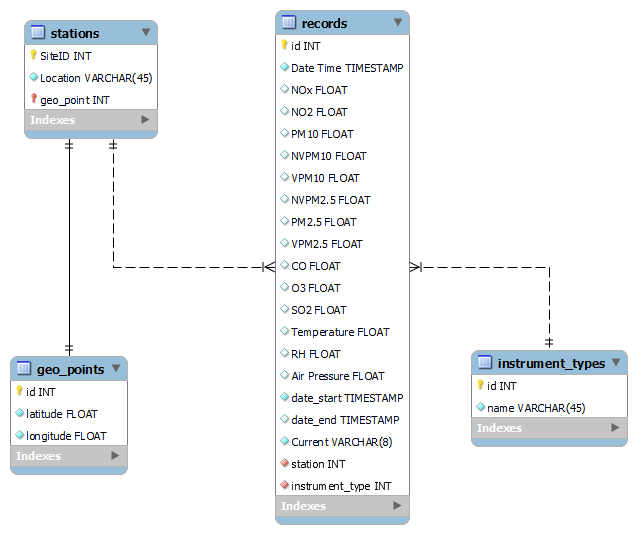
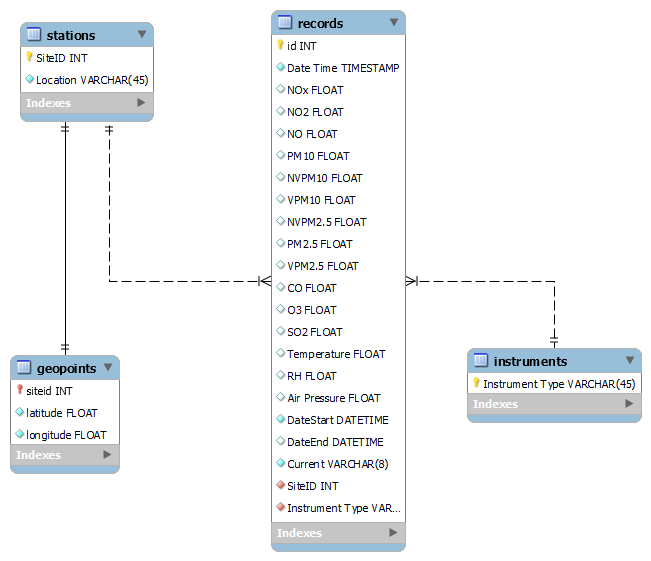
Task 3 & 4

diff --git a/insert_sql.py b/insert_sql.py
@@ -1,0 +1,101 @@
+#importing required libraries
+import sqlalchemy
+from sqlalchemy import text
+from sqlalchemy.orm import sessionmaker
+import pymysql
+import pandas as pd
+
+# define database credentials
+user = 'user' # replace with actual db user
+password = 'password' # replace with db pass
+host = 'localhost' # change to db host
+port = 3306 # change to host port
+
+# name of schema to be created and used in this script. Be careful no db exists on your 
+# server with the same name, such will be dropped and a new on created.
+# don't change it also as it will conflict with the name defined in the SQL script.
+db = 'pollution'
+
+# setup database engine and session manager
+engine = sqlalchemy.create_engine(f'mysql+pymysql://{user}:{password}@{host}:{port}')
+Session = sessionmaker(engine)
+
+# create database from pollution.sql file
+print('Executing commands in pollution.sql')
+with open('pollution.sql', 'r') as sqlfile:
+  query = ''
+  # skip comments in file and execute full sql statements
+  for line in sqlfile:
+    if not line.startswith('--') and line.strip('\n'):
+      query += line.strip('\n')
+
+      if query.endswith(';'):
+        try:
+          with Session.begin() as session:
+            session.execute(text(query))
+        except:
+            print(f"could not execute `{query}`. Check the query or the connection")
+            raise Exception('SQL execution error')
+        finally:
+          query = ''
+
+# read data from clean.csv for insertion into database
+df = pd.read_csv('clean.csv')
+
+# insert data into station table. This table contains data on monitoring sites
+stations = df.filter(items=['SiteID', 'Location']).drop_duplicates(subset='SiteID')
+stations.SiteID = stations.SiteID.astype('int64')
+print('\ninserting data into stations table...')
+try:
+  stations.to_sql('stations', con=engine, if_exists='append', index=False, schema=db)
+  print('Stations data inserted')
+except:
+  print("Couldn't insert data into stations table.")
+finally:
+  del stations
+
+# filter out geolocation data
+geopoints = df.filter(items=["SiteID", "geo_point_2d"]).drop_duplicates(subset='SiteID')
+# cast site id into appropriate data type
+geopoints.SiteID = geopoints.SiteID.astype('int64')
+# format geopoints into latitudes and longitudes
+geopoints[['latitude', 'longitude']] = geopoints.geo_point_2d.str.split(',', expand=True)
+del geopoints['geo_point_2d']
+
+print('\nInserting data into geopoints table...')
+try:
+  geopoints.to_sql('geopoints', con=engine, if_exists='append', index=False, schema=db)
+  print('geopoints data inserted')
+except:
+  print("Couldn't insert data into geopoints table.")
+finally:
+  del geopoints
+
+# filter out instrument types
+instru_types = df.filter(items=['Instrument Type']).drop_duplicates()
+
+print('\ninserting data into istruments table...')
+try:
+  instru_types.to_sql('instruments', con=engine, if_exists='append', index=False, schema=db)
+  print('instruments data inserted')
+except:
+  print("Couldn't insert data into instruments table.")
+finally:
+  del instru_types
+
+# insert data into records table
+records = df.drop(['Location', 'geo_point_2d'], axis=1)
+# cast timestamps to datatypes compatible with the database
+records['Date Time'] = records['Date Time'].astype('datetime64')
+records.DateEnd = records.DateEnd.astype('datetime64')
+records.DateStart = records.DateStart.astype('datetime64')
+
+print('\ninserting data into records table...')
+try:
+  records.to_sql('records', if_exists='append', con=engine, chunksize=1000, index=False, schema=db)
+  print('records data inserted')
+except:
+  print("Couldn't insert data into records table.")
+finally:
+  del records
+

diff --git a/crop.py b/crop.py
@@ -7,7 +7,8 @@ df = pd.read_csv('bristol-air-quality-data.csv', sep=';')
 
 # delete entries older than 2010-01-01 00:00
 df = df[df['Date Time'].astype('datetime64') >= pd.Timestamp('2010-01-01T00')]
+df = df[~df.DateStart.isna()]
 
 # save to new csv
-df.to_csv('cropped.csv')
+df.to_csv('cropped.csv', index=False)
 print("Data cropped. New dataset saved as cropped.csv")

diff --git a/clean.py b/clean.py
@@ -44,5 +44,5 @@ print(df[~df['Date Time'].isin(indices)].filter(items=['SiteID', 'Location']))
 df = df[df['Date Time'].isin(indices)]
 
 # save to clean.csv
-df.to_csv('clean.csv')
+df.to_csv('clean.csv', index=False)
 print("Data saved as 'clean.csv'")
